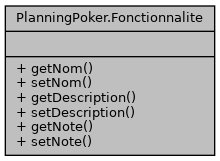
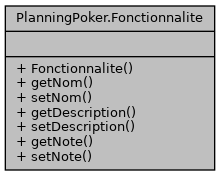
deploy: 7c1d031c2d2c0615960acb3b6230707be9a2f87d

Changed region(s): [[0.0273, 0.3106, 0.9818, 0.9317], [0.0273, 0.0, 0.9818, 0.2174], [0.0273, 0.9627, 0.9818, 0.9938]]

diff --git a/html/classPlanningPoker_1_1Fonctionnalite-members.html b/html/classPlanningPoker_1_1Fonctionnalite-members.html
@@ -73,12 +73,13 @@ $(function() {
 
 <p>This is the complete list of members for <a class="el" href="classPlanningPoker_1_1Fonctionnalite.html">PlanningPoker.Fonctionnalite</a>, including all inherited members.</p>
 <table class="directory">
-  <tr class="even"><td class="entry"><a class="el" href="classPlanningPoker_1_1Fonctionnalite.html#ae7c520d6348f40ac85679a803034ac16">getDescription</a>()</td><td class="entry"><a class="el" href="classPlanningPoker_1_1Fonctionnalite.html">PlanningPoker.Fonctionnalite</a></td><td class="entry"><span class="mlabel">inline</span></td></tr>
-  <tr><td class="entry"><a class="el" href="classPlanningPoker_1_1Fonctionnalite.html#a841cf84389a63c7e19fdc114711a75d8">getNom</a>()</td><td class="entry"><a class="el" href="classPlanningPoker_1_1Fonctionnalite.html">PlanningPoker.Fonctionnalite</a></td><td class="entry"><span class="mlabel">inline</span></td></tr>
-  <tr class="even"><td class="entry"><a class="el" href="classPlanningPoker_1_1Fonctionnalite.html#ad688c9650bfa2642f032b2d8466c9415">getNote</a>()</td><td class="entry"><a class="el" href="classPlanningPoker_1_1Fonctionnalite.html">PlanningPoker.Fonctionnalite</a></td><td class="entry"><span class="mlabel">inline</span></td></tr>
-  <tr><td class="entry"><a class="el" href="classPlanningPoker_1_1Fonctionnalite.html#a2255022a927276beb4ff98899d33d651">setDescription</a>(string description)</td><td class="entry"><a class="el" href="classPlanningPoker_1_1Fonctionnalite.html">PlanningPoker.Fonctionnalite</a></td><td class="entry"><span class="mlabel">inline</span></td></tr>
-  <tr class="even"><td class="entry"><a class="el" href="classPlanningPoker_1_1Fonctionnalite.html#a84301abcdecad9c7f882c491deebda21">setNom</a>(string nom)</td><td class="entry"><a class="el" href="classPlanningPoker_1_1Fonctionnalite.html">PlanningPoker.Fonctionnalite</a></td><td class="entry"><span class="mlabel">inline</span></td></tr>
-  <tr><td class="entry"><a class="el" href="classPlanningPoker_1_1Fonctionnalite.html#a0b78c8149b561becfe77922b3924c1ce">setNote</a>(Card note)</td><td class="entry"><a class="el" href="classPlanningPoker_1_1Fonctionnalite.html">PlanningPoker.Fonctionnalite</a></td><td class="entry"><span class="mlabel">inline</span></td></tr>
+  <tr class="even"><td class="entry"><a class="el" href="classPlanningPoker_1_1Fonctionnalite.html#a94a9144ed8bb09544b5eed36a6533fb9">Fonctionnalite</a>()</td><td class="entry"><a class="el" href="classPlanningPoker_1_1Fonctionnalite.html">PlanningPoker.Fonctionnalite</a></td><td class="entry"><span class="mlabel">inline</span></td></tr>
+  <tr><td class="entry"><a class="el" href="classPlanningPoker_1_1Fonctionnalite.html#ae7c520d6348f40ac85679a803034ac16">getDescription</a>()</td><td class="entry"><a class="el" href="classPlanningPoker_1_1Fonctionnalite.html">PlanningPoker.Fonctionnalite</a></td><td class="entry"><span class="mlabel">inline</span></td></tr>
+  <tr class="even"><td class="entry"><a class="el" href="classPlanningPoker_1_1Fonctionnalite.html#a841cf84389a63c7e19fdc114711a75d8">getNom</a>()</td><td class="entry"><a class="el" href="classPlanningPoker_1_1Fonctionnalite.html">PlanningPoker.Fonctionnalite</a></td><td class="entry"><span class="mlabel">inline</span></td></tr>
+  <tr><td class="entry"><a class="el" href="classPlanningPoker_1_1Fonctionnalite.html#ad688c9650bfa2642f032b2d8466c9415">getNote</a>()</td><td class="entry"><a class="el" href="classPlanningPoker_1_1Fonctionnalite.html">PlanningPoker.Fonctionnalite</a></td><td class="entry"><span class="mlabel">inline</span></td></tr>
+  <tr class="even"><td class="entry"><a class="el" href="classPlanningPoker_1_1Fonctionnalite.html#a2255022a927276beb4ff98899d33d651">setDescription</a>(string description)</td><td class="entry"><a class="el" href="classPlanningPoker_1_1Fonctionnalite.html">PlanningPoker.Fonctionnalite</a></td><td class="entry"><span class="mlabel">inline</span></td></tr>
+  <tr><td class="entry"><a class="el" href="classPlanningPoker_1_1Fonctionnalite.html#a84301abcdecad9c7f882c491deebda21">setNom</a>(string nom)</td><td class="entry"><a class="el" href="classPlanningPoker_1_1Fonctionnalite.html">PlanningPoker.Fonctionnalite</a></td><td class="entry"><span class="mlabel">inline</span></td></tr>
+  <tr class="even"><td class="entry"><a class="el" href="classPlanningPoker_1_1Fonctionnalite.html#a0b78c8149b561becfe77922b3924c1ce">setNote</a>(Card note)</td><td class="entry"><a class="el" href="classPlanningPoker_1_1Fonctionnalite.html">PlanningPoker.Fonctionnalite</a></td><td class="entry"><span class="mlabel">inline</span></td></tr>
 </table></div><!-- contents -->
 <!-- start footer part -->
 <hr class="footer"/><address class="footer"><small>

diff --git a/html/classPlanningPoker_1_1Validator.html b/html/classPlanningPoker_1_1Validator.html
@@ -274,15 +274,18 @@ Static Public Attributes</h2></td></tr>
 <div class="line">            <span class="keywordtype">int</span> <a class="code" href="classPlanningPoker_1_1Validator.html#ae169f48402c6270d65f8630da6733e8f">mediane</a>;</div>
 <div class="line">            <span class="keywordflow">if</span>(nb_cafes&gt;nb_cartes)<span class="keywordflow">return</span> <a class="code" href="classCard.html">Card</a>.cafe;</div>
 <div class="line">            <span class="keywordflow">if</span>(nb_cartes==0) <span class="keywordflow">return</span> <a class="code" href="classCard.html">Card</a>.joker;</div>
-<div class="line">            <span class="keywordflow">if</span>(nb_cartes%2==1) <a class="code" href="classPlanningPoker_1_1Validator.html#ae169f48402c6270d65f8630da6733e8f">mediane</a> = (int)(cartes_tmp[((nb_cartes/2)+1)]);</div>
+<div class="line">            <span class="keywordflow">if</span>(nb_cartes%2==1) <a class="code" href="classPlanningPoker_1_1Validator.html#ae169f48402c6270d65f8630da6733e8f">mediane</a> = cartes_tmp[nb_cartes/2];</div>
 <div class="line">            <span class="keywordflow">else</span>{</div>
-<div class="line">                <span class="keywordtype">int</span> v1 = (int)(cartes_tmp[(nb_cartes/2)+1]);</div>
-<div class="line">                <span class="keywordtype">int</span> v2 = (int)(cartes_tmp[(nb_cartes/2)]);</div>
+<div class="line">                <span class="keywordtype">int</span> v1 = cartes_tmp[(nb_cartes/2)-1];</div>
+<div class="line">                <span class="keywordtype">int</span> v2 = cartes_tmp[nb_cartes/2];</div>
 <div class="line">                <a class="code" href="classPlanningPoker_1_1Validator.html#ae169f48402c6270d65f8630da6733e8f">mediane</a> = (v1+v2)/2;</div>
 <div class="line">            }</div>
+<div class="line">            Debug.Log(<span class="stringliteral">&quot;Médiane calculée : &quot;</span> + <a class="code" href="classPlanningPoker_1_1Validator.html#ae169f48402c6270d65f8630da6733e8f">mediane</a>);</div>
+<div class="line">            <a class="code" href="classCard.html">Card</a> result = <a class="code" href="classCard.html">Card</a>.numberToCard(<a class="code" href="classPlanningPoker_1_1Validator.html#ae169f48402c6270d65f8630da6733e8f">mediane</a>);</div>
+<div class="line">            Debug.Log(<span class="stringliteral">&quot;Carte retournée : &quot;</span> + result.ToString());</div>
 <div class="line">            <span class="keywordflow">return</span> <a class="code" href="classCard.html">Card</a>.numberToCard(<a class="code" href="classPlanningPoker_1_1Validator.html#ae169f48402c6270d65f8630da6733e8f">mediane</a>);</div>
 <div class="line">        }</div>
-<div class="ttc" id="aclassPlanningPoker_1_1Validator_html_ae169f48402c6270d65f8630da6733e8f"><div class="ttname"><a href="classPlanningPoker_1_1Validator.html#ae169f48402c6270d65f8630da6733e8f">PlanningPoker.Validator.mediane</a></div><div class="ttdeci">static readonly Validate mediane</div><div class="ttdoc">Règle de la médiane : retourne la carte la plus proche de la médiane des valeurs.</div><div class="ttdef"><b>Definition:</b> Validator.cs:62</div></div>
+<div class="ttc" id="aclassPlanningPoker_1_1Validator_html_ae169f48402c6270d65f8630da6733e8f"><div class="ttname"><a href="classPlanningPoker_1_1Validator.html#ae169f48402c6270d65f8630da6733e8f">PlanningPoker.Validator.mediane</a></div><div class="ttdeci">static readonly Validate mediane</div><div class="ttdoc">Règle de la médiane : retourne la carte la plus proche de la médiane des valeurs.</div><div class="ttdef"><b>Definition:</b> Validator.cs:64</div></div>
 </div><!-- fragment -->
 <p>Règle de la médiane : retourne la carte la plus proche de la médiane des valeurs. </p>
 <ul>
@@ -293,8 +296,7 @@ Static Public Attributes</h2></td></tr>
   </table>
   </dd>
 </dl>
-<dl class="section return"><dt>Returns</dt><dd>: La carte correspondant à la médiane <br  />
- </dd></dl>
+<dl class="section return"><dt>Returns</dt><dd>: La carte correspondant à la médiane 3, 5, 13, 3 joker 3, 3, 5, 13 </dd></dl>
 </li>
 </ul>
 

diff --git a/html/classPlanningPoker_1_1Fonctionnalite.html b/html/classPlanningPoker_1_1Fonctionnalite.html
@@ -78,12 +78,16 @@ Collaboration diagram for PlanningPoker.Fonctionnalite:</div>
 <div class="dyncontent">
 <div class="center"><img src="classPlanningPoker_1_1Fonctionnalite__coll__graph.png" border="0" usemap="#aPlanningPoker_8Fonctionnalite_coll__map" alt="Collaboration graph"/></div>
 <map name="aPlanningPoker_8Fonctionnalite_coll__map" id="aPlanningPoker_8Fonctionnalite_coll__map">
-<area shape="rect" title=" " alt="" coords="5,5,215,156"/>
+<area shape="rect" title=" " alt="" coords="5,5,215,171"/>
 </map>
 </div>
 <table class="memberdecls">
 <tr class="heading"><td colspan="2"><h2 class="groupheader"><a name="pub-methods"></a>
 Public Member Functions</h2></td></tr>
+<tr class="memitem:a94a9144ed8bb09544b5eed36a6533fb9"><td class="memItemLeft" align="right" valign="top"><a id="a94a9144ed8bb09544b5eed36a6533fb9"></a>
+&#160;</td><td class="memItemRight" valign="bottom"><a class="el" href="classPlanningPoker_1_1Fonctionnalite.html#a94a9144ed8bb09544b5eed36a6533fb9">Fonctionnalite</a> ()</td></tr>
+<tr class="memdesc:a94a9144ed8bb09544b5eed36a6533fb9"><td class="mdescLeft">&#160;</td><td class="mdescRight">Constructeur par défaut de la classe <a class="el" href="classPlanningPoker_1_1Fonctionnalite.html">Fonctionnalite</a>. <br /></td></tr>
+<tr class="separator:a94a9144ed8bb09544b5eed36a6533fb9"><td class="memSeparator" colspan="2">&#160;</td></tr>
 <tr class="memitem:a841cf84389a63c7e19fdc114711a75d8"><td class="memItemLeft" align="right" valign="top">string&#160;</td><td class="memItemRight" valign="bottom"><a class="el" href="classPlanningPoker_1_1Fonctionnalite.html#a841cf84389a63c7e19fdc114711a75d8">getNom</a> ()</td></tr>
 <tr class="memdesc:a841cf84389a63c7e19fdc114711a75d8"><td class="mdescLeft">&#160;</td><td class="mdescRight">Getter pour le nom de la fonctionnalité  <a href="classPlanningPoker_1_1Fonctionnalite.html#a841cf84389a63c7e19fdc114711a75d8">More...</a><br /></td></tr>
 <tr class="separator:a841cf84389a63c7e19fdc114711a75d8"><td class="memSeparator" colspan="2">&#160;</td></tr>

diff --git a/html/search/functions_7.html b/html/search/functions_7.html
@@ -1,0 +1,37 @@
+<!DOCTYPE html PUBLIC "-//W3C//DTD XHTML 1.0 Transitional//EN" "https://www.w3.org/TR/xhtml1/DTD/xhtml1-transitional.dtd">
+<html xmlns="http://www.w3.org/1999/xhtml">
+<head><title></title>
+<meta http-equiv="Content-Type" content="text/xhtml;charset=UTF-8"/>
+<meta name="generator" content="Doxygen 1.9.1"/>
+<link rel="stylesheet" type="text/css" href="search.css"/>
+<script type="text/javascript" src="functions_7.js"></script>
+<script type="text/javascript" src="search.js"></script>
+</head>
+<body class="SRPage">
+<div id="SRIndex">
+<div class="SRStatus" id="Loading">Loading...</div>
+<div id="SRResults"></div>
+<script type="text/javascript">
+/* @license magnet:?xt=urn:btih:cf05388f2679ee054f2beb29a391d25f4e673ac3&amp;dn=gpl-2.0.txt GPL-v2 */
+createResults();
+/* @license-end */
+</script>
+<div class="SRStatus" id="Searching">Searching...</div>
+<div class="SRStatus" id="NoMatches">No Matches</div>
+<script type="text/javascript">
+/* @license magnet:?xt=urn:btih:cf05388f2679ee054f2beb29a391d25f4e673ac3&amp;dn=gpl-2.0.txt GPL-v2 */
+document.getElementById("Loading").style.display="none";
+document.getElementById("NoMatches").style.display="none";
+var searchResults = new SearchResults("searchResults");
+searchResults.Search();
+window.addEventListener("message", function(event) {
+  if (event.data == "take_focus") {
+    var elem = searchResults.NavNext(0);
+    if (elem) elem.focus();
+  }
+});
+/* @license-end */
+</script>
+</div>
+</body>
+</html>

diff --git a/html/search/variables_4.js b/html/search/variables_4.js
@@ -1,7 +1,7 @@
 var searchData=
 [
-  ['majorite_5fabsolue_70',['majorite_absolue',['../classPlanningPoker_1_1Validator.html#a6f532cfc575351413b464380f290f5dc',1,'PlanningPoker::Validator']]],
-  ['majorite_5frelative_71',['majorite_relative',['../classPlanningPoker_1_1Validator.html#acc08d77adbac1ad15a9d1a2450848420',1,'PlanningPoker::Validator']]],
-  ['mediane_72',['mediane',['../classPlanningPoker_1_1Validator.html#ae169f48402c6270d65f8630da6733e8f',1,'PlanningPoker::Validator']]],
-  ['moyenne_73',['moyenne',['../classPlanningPoker_1_1Validator.html#a6622d5a1cead940008daa4ebacb09b6d',1,'PlanningPoker::Validator']]]
+  ['majorite_5fabsolue_71',['majorite_absolue',['../classPlanningPoker_1_1Validator.html#a6f532cfc575351413b464380f290f5dc',1,'PlanningPoker::Validator']]],
+  ['majorite_5frelative_72',['majorite_relative',['../classPlanningPoker_1_1Validator.html#acc08d77adbac1ad15a9d1a2450848420',1,'PlanningPoker::Validator']]],
+  ['mediane_73',['mediane',['../classPlanningPoker_1_1Validator.html#ae169f48402c6270d65f8630da6733e8f',1,'PlanningPoker::Validator']]],
+  ['moyenne_74',['moyenne',['../classPlanningPoker_1_1Validator.html#a6622d5a1cead940008daa4ebacb09b6d',1,'PlanningPoker::Validator']]]
 ];

diff --git a/html/search/functions_5.js b/html/search/functions_5.js
@@ -1,5 +1,7 @@
 var searchData=
 [
-  ['toint_61',['toInt',['../classPlanningPoker_1_1Card.html#a3b390b079c877cc4d060c697e242e995',1,'PlanningPoker::Card']]],
-  ['tostring_62',['toString',['../classPlanningPoker_1_1Card.html#aeee0070542af3ad678dd43e6b4e1ff0d',1,'PlanningPoker::Card']]]
+  ['save_58',['save',['../classPlanningPoker_1_1AppManager.html#a62d7eb5142c74fe16166363f0cce4f16',1,'PlanningPoker::AppManager']]],
+  ['setdescription_59',['setDescription',['../classPlanningPoker_1_1Fonctionnalite.html#a2255022a927276beb4ff98899d33d651',1,'PlanningPoker::Fonctionnalite']]],
+  ['setnom_60',['setNom',['../classPlanningPoker_1_1Fonctionnalite.html#a84301abcdecad9c7f882c491deebda21',1,'PlanningPoker::Fonctionnalite']]],
+  ['setnote_61',['setNote',['../classPlanningPoker_1_1Fonctionnalite.html#a0b78c8149b561becfe77922b3924c1ce',1,'PlanningPoker::Fonctionnalite']]]
 ];

diff --git a/html/classPlanningPoker_1_1FonctionnaliteWrapper.html b/html/classPlanningPoker_1_1FonctionnaliteWrapper.html
@@ -78,8 +78,8 @@ Collaboration diagram for PlanningPoker.FonctionnaliteWrapper:</div>
 <div class="dyncontent">
 <div class="center"><img src="classPlanningPoker_1_1FonctionnaliteWrapper__coll__graph.png" border="0" usemap="#aPlanningPoker_8FonctionnaliteWrapper_coll__map" alt="Collaboration graph"/></div>
 <map name="aPlanningPoker_8FonctionnaliteWrapper_coll__map" id="aPlanningPoker_8FonctionnaliteWrapper_coll__map">
-<area shape="rect" title=" " alt="" coords="5,219,215,311"/>
-<area shape="rect" href="classPlanningPoker_1_1Fonctionnalite.html" title=" " alt="" coords="5,5,215,156"/>
+<area shape="rect" title=" " alt="" coords="5,233,215,325"/>
+<area shape="rect" href="classPlanningPoker_1_1Fonctionnalite.html" title=" " alt="" coords="5,5,215,171"/>
 </map>
 </div>
 <table class="memberdecls">

diff --git a/html/search/functions_1.js b/html/search/functions_1.js
@@ -1,7 +1,4 @@
 var searchData=
 [
-  ['getcurrent_51',['getCurrent',['../classPlanningPoker_1_1AppManager.html#aab28663b8514785b9dc38b845d47c62c',1,'PlanningPoker::AppManager']]],
-  ['getdescription_52',['getDescription',['../classPlanningPoker_1_1Fonctionnalite.html#ae7c520d6348f40ac85679a803034ac16',1,'PlanningPoker::Fonctionnalite']]],
-  ['getnom_53',['getNom',['../classPlanningPoker_1_1Fonctionnalite.html#a841cf84389a63c7e19fdc114711a75d8',1,'PlanningPoker::Fonctionnalite']]],
-  ['getnote_54',['getNote',['../classPlanningPoker_1_1Fonctionnalite.html#ad688c9650bfa2642f032b2d8466c9415',1,'PlanningPoker::Fonctionnalite']]]
+  ['fonctionnalite_51',['Fonctionnalite',['../classPlanningPoker_1_1Fonctionnalite.html#a94a9144ed8bb09544b5eed36a6533fb9',1,'PlanningPoker::Fonctionnalite']]]
 ];

diff --git a/html/search/functions_2.js b/html/search/functions_2.js
@@ -1,4 +1,7 @@
 var searchData=
 [
-  ['joue_5ftour_55',['joue_tour',['../classPlanningPoker_1_1AppManager.html#aa299de8d154c12b8e524d42dca2c2fb4',1,'PlanningPoker::AppManager']]]
+  ['getcurrent_52',['getCurrent',['../classPlanningPoker_1_1AppManager.html#aab28663b8514785b9dc38b845d47c62c',1,'PlanningPoker::AppManager']]],
+  ['getdescription_53',['getDescription',['../classPlanningPoker_1_1Fonctionnalite.html#ae7c520d6348f40ac85679a803034ac16',1,'PlanningPoker::Fonctionnalite']]],
+  ['getnom_54',['getNom',['../classPlanningPoker_1_1Fonctionnalite.html#a841cf84389a63c7e19fdc114711a75d8',1,'PlanningPoker::Fonctionnalite']]],
+  ['getnote_55',['getNote',['../classPlanningPoker_1_1Fonctionnalite.html#ad688c9650bfa2642f032b2d8466c9415',1,'PlanningPoker::Fonctionnalite']]]
 ];

diff --git a/html/search/variables_0.js b/html/search/variables_0.js
@@ -1,6 +1,6 @@
 var searchData=
 [
-  ['cafe_64',['cafe',['../classPlanningPoker_1_1Card.html#aad7bc39e9f10739377e1d7044c7a9bce',1,'PlanningPoker::Card']]],
-  ['cent_65',['cent',['../classPlanningPoker_1_1Card.html#af53fd4f3897aff1617465ee3159793c9',1,'PlanningPoker::Card']]],
-  ['cinq_66',['cinq',['../classPlanningPoker_1_1Card.html#a15eda93793c7ab8a7d8a9299583d571f',1,'PlanningPoker::Card']]]
+  ['cafe_65',['cafe',['../classPlanningPoker_1_1Card.html#aad7bc39e9f10739377e1d7044c7a9bce',1,'PlanningPoker::Card']]],
+  ['cent_66',['cent',['../classPlanningPoker_1_1Card.html#af53fd4f3897aff1617465ee3159793c9',1,'PlanningPoker::Card']]],
+  ['cinq_67',['cinq',['../classPlanningPoker_1_1Card.html#a15eda93793c7ab8a7d8a9299583d571f',1,'PlanningPoker::Card']]]
 ];

diff --git a/html/search/functions_4.js b/html/search/functions_4.js
@@ -1,7 +1,4 @@
 var searchData=
 [
-  ['save_57',['save',['../classPlanningPoker_1_1AppManager.html#a62d7eb5142c74fe16166363f0cce4f16',1,'PlanningPoker::AppManager']]],
-  ['setdescription_58',['setDescription',['../classPlanningPoker_1_1Fonctionnalite.html#a2255022a927276beb4ff98899d33d651',1,'PlanningPoker::Fonctionnalite']]],
-  ['setnom_59',['setNom',['../classPlanningPoker_1_1Fonctionnalite.html#a84301abcdecad9c7f882c491deebda21',1,'PlanningPoker::Fonctionnalite']]],
-  ['setnote_60',['setNote',['../classPlanningPoker_1_1Fonctionnalite.html#a0b78c8149b561becfe77922b3924c1ce',1,'PlanningPoker::Fonctionnalite']]]
+  ['numbertocard_57',['numberToCard',['../classPlanningPoker_1_1Card.html#a86a7c14ee1100656d27d5ee691f78bf3',1,'PlanningPoker::Card']]]
 ];

diff --git a/html/search/all_3.js b/html/search/all_3.js
@@ -1,5 +1,5 @@
 var searchData=
 [
-  ['fonctionnalite_9',['Fonctionnalite',['../classFonctionnalite.html',1,'Fonctionnalite'],['../classPlanningPoker_1_1Fonctionnalite.html',1,'PlanningPoker.Fonctionnalite']]],
+  ['fonctionnalite_9',['Fonctionnalite',['../classFonctionnalite.html',1,'Fonctionnalite'],['../classPlanningPoker_1_1Fonctionnalite.html#a94a9144ed8bb09544b5eed36a6533fb9',1,'PlanningPoker.Fonctionnalite.Fonctionnalite()'],['../classPlanningPoker_1_1Fonctionnalite.html',1,'PlanningPoker.Fonctionnalite']]],
   ['fonctionnalitewrapper_10',['FonctionnaliteWrapper',['../classPlanningPoker_1_1FonctionnaliteWrapper.html',1,'PlanningPoker']]]
 ];
